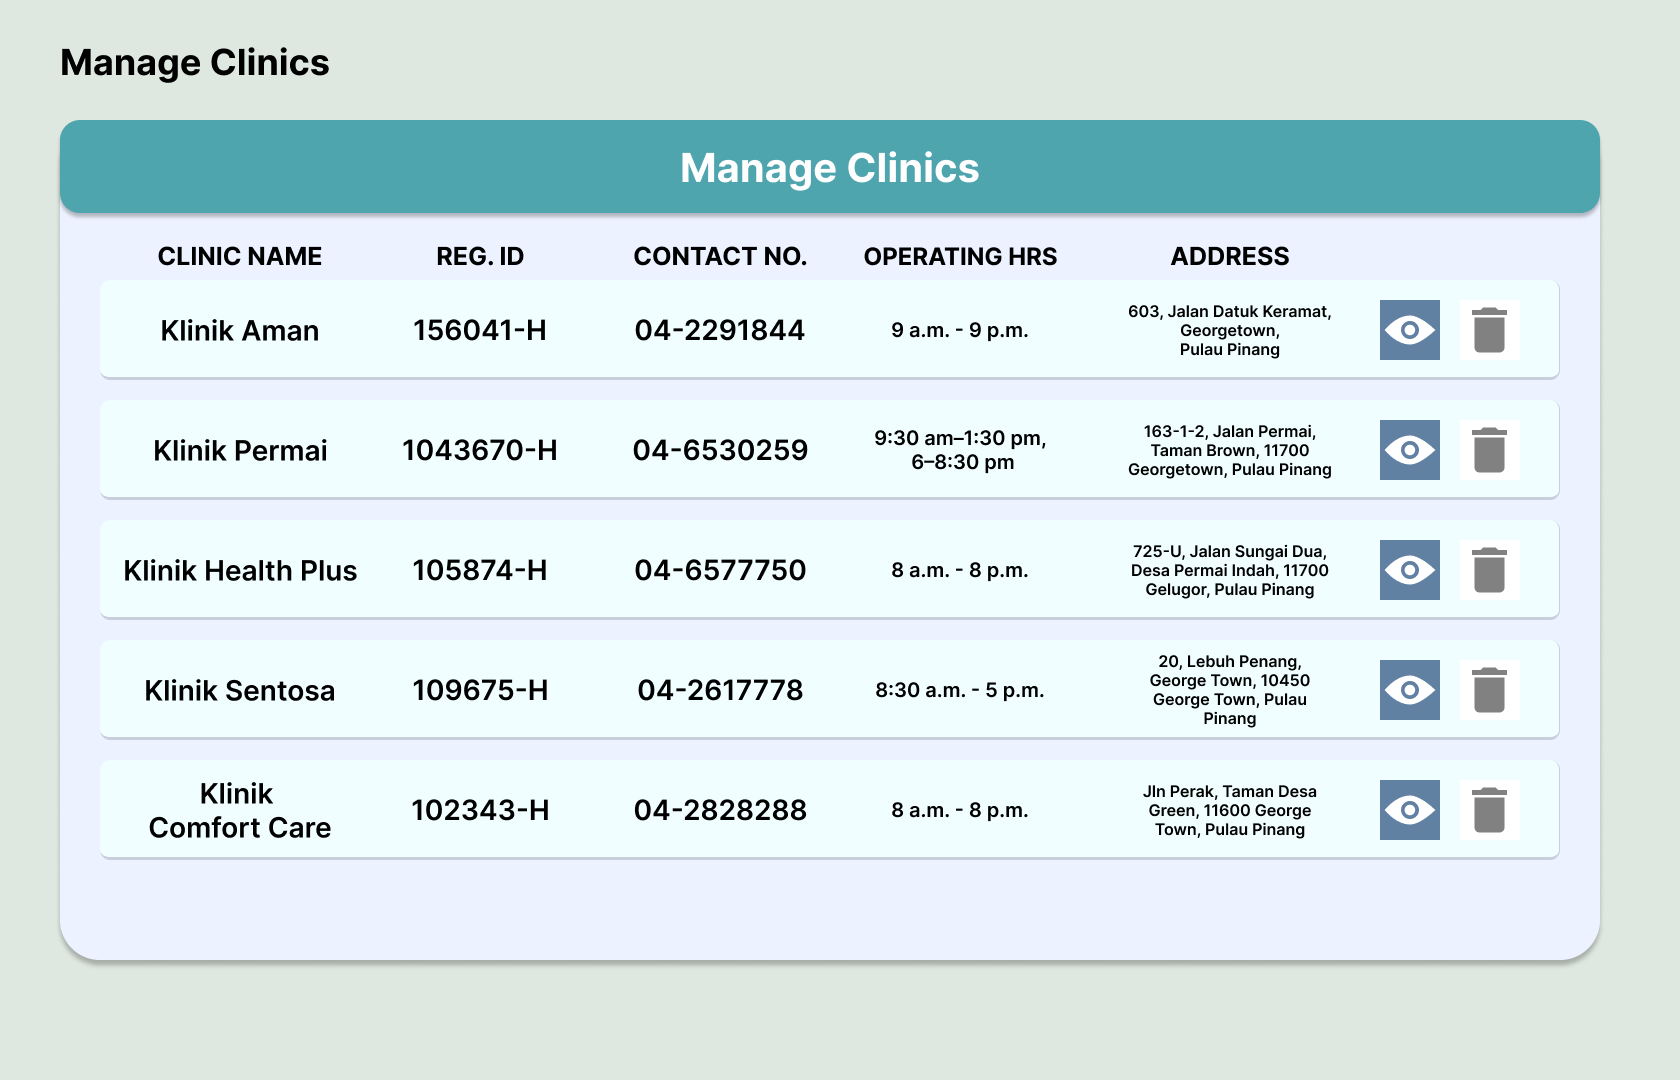
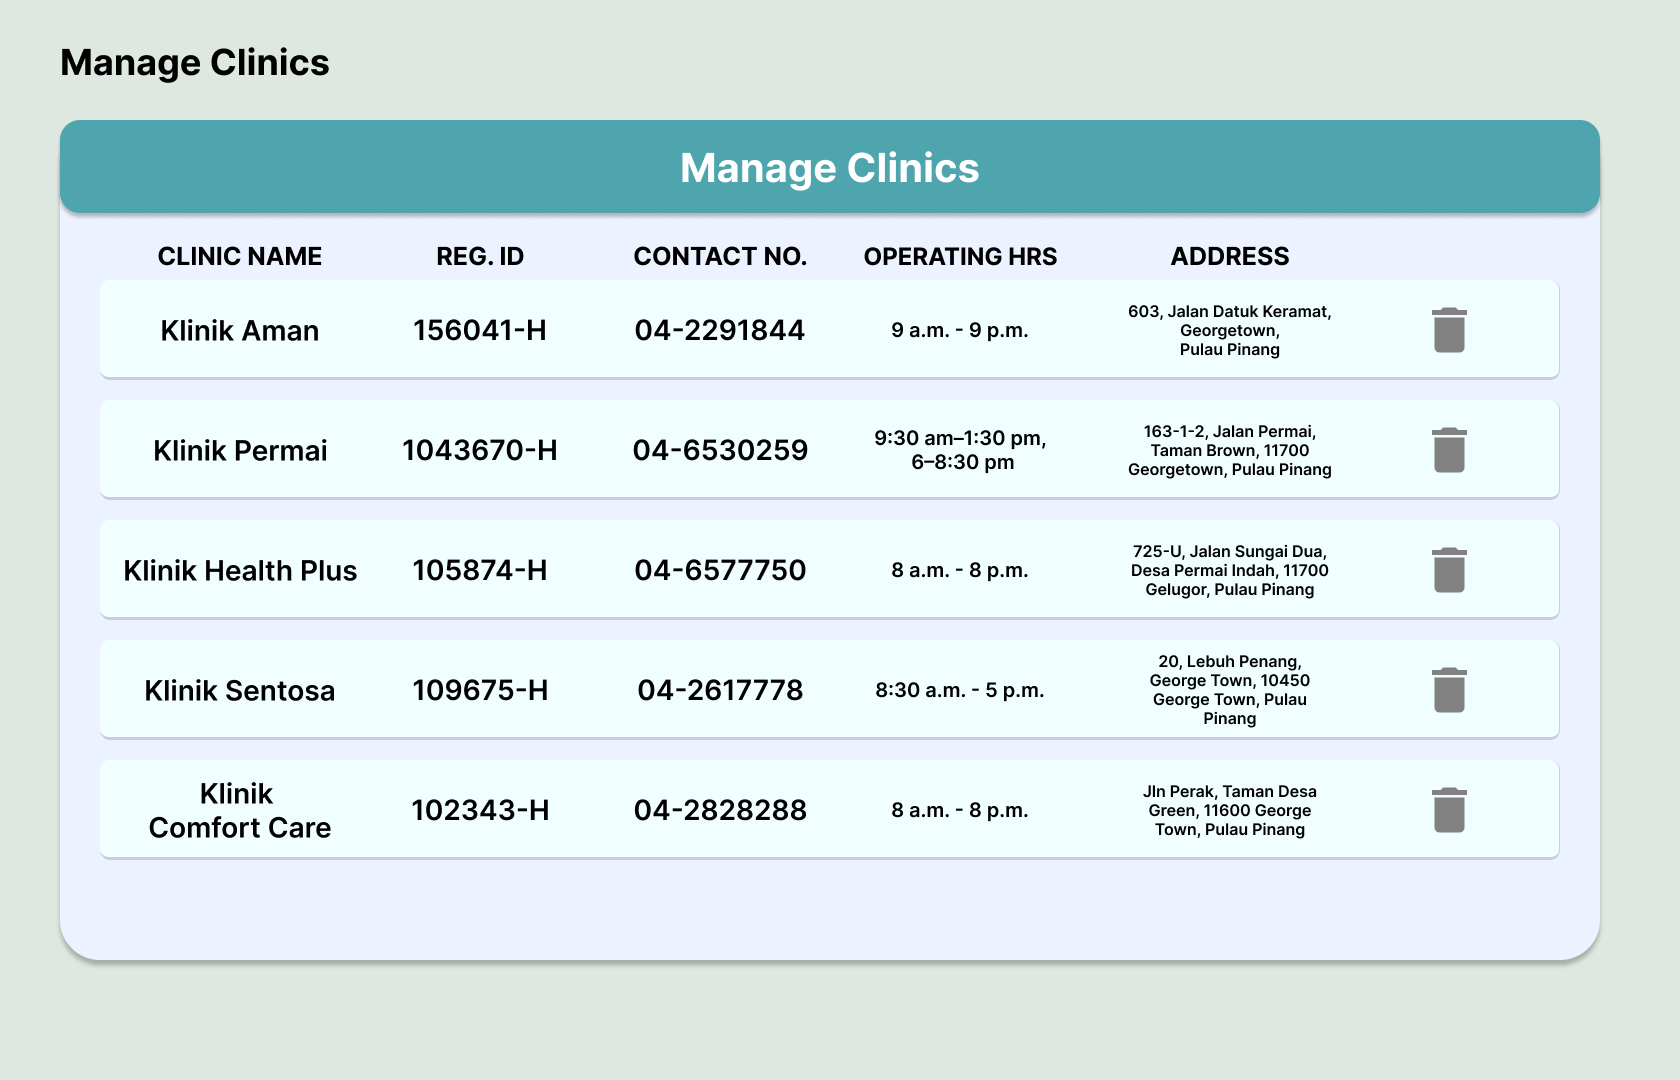
enabled update dashboard status, reload parents

diff --git a/views/dashboard/officerDashboard.py b/views/dashboard/officerDashboard.py
@@ -54,6 +54,12 @@ class GovOfficerDashboard(Frame):
             x=0, y=0, classname="primarypanelbg", root=self
         )
 
+        self.controller.buttonCreator(
+            ipath=r"assets/Dashboard/OfficerAssets/officerrefreshbtn.png",
+            x=1560, y=120, classname="refreshbtn", root=self,
+            buttonFunction=lambda: [self.refreshClinicsSideFrame()]
+        )
+
         self.initializeGovRegSystem()
         self.initializeApprovedClinicDetails()
         self.loadSupervisedClinicsOnMap()
@@ -69,7 +75,7 @@ class GovOfficerDashboard(Frame):
             master=self, width=780, height=h, autohide=True, bootstyle="officer-bg"
         )
         self.clinicsListFrame.grid_propagate(False)
-        self.clinicsListFrame.place(x=880, y=260, width=780, height=760)
+        self.clinicsListFrame.place(x=880, y=260, width=780, height=750)
         COORDS = (20, 20)
         for clinicEnrolment in self.systemManaged.programmeRegistration:
             clinic = clinicEnrolment.clinic
@@ -99,10 +105,18 @@ class GovOfficerDashboard(Frame):
                 text=clinic.address, font=("Inter", 12), fg=BLACK,
                 isDisabled=True, isJustified=True, justification="left",
             )
+
+            if clinicEnrolment.status == "APPROVED":
+                statusimage = "assets/Dashboard/OfficerAssets/approved.png"
+            elif clinicEnrolment.status == "PENDING":
+                statusimage = "assets/Dashboard/OfficerAssets/pending.png"
+            elif clinicEnrolment.status == "REJECTED":
+                statusimage = "assets/Dashboard/OfficerAssets/rejected.png"
+
             clinicStatus = self.controller.buttonCreator(
                 x=X+660, y=Y+20, classname=f"{clinic.id}_status", root=R,
-                ipath="assets/Dashboard/OfficerAssets/approved.png" if clinicEnrolment.status == "APPROVED" else "assets/Dashboard/OfficerAssets/pending.png",
-                buttonFunction=lambda c=clinic: [self.updateClinicStatus(c)],
+                ipath=statusimage,
+                buttonFunction=lambda c=clinic.id: [self.updateClinicStatus(c)],
                 isPlaced=True
             )
             COORDS = (
@@ -179,9 +193,10 @@ class GovOfficerDashboard(Frame):
         clinicsSearchEntry.bind("<FocusIn>", lambda e: [clinicsSearchEntry.delete(0, END)] if clinicsSearchEntry.get() == "Search" else None)
         clinicsSearchEntry.bind("<FocusOut>", lambda e: [clinicsSearchEntry.grid_forget(), self.loadClinicsSearchBar()])
 
-
+    def refreshClinicsSideFrame(self):
+        self.initializeGovRegSystem()
+        self.loadClinicsIntoSideFrame()
         
-
 
     def loadSupervisedClinicsOnMap(self):
         self.loc = GoogleV3(api_key=os.getenv(
@@ -205,6 +220,9 @@ class GovOfficerDashboard(Frame):
                 clinicCoordinates.latitude, clinicCoordinates.longitude, text=clinic.name
             )
 
+    
+
+
     def initializeGovRegSystem(self):
         self.systemManaged = self.prisma.govregsystem.find_first(
             where={
@@ -219,7 +237,51 @@ class GovOfficerDashboard(Frame):
                 }
             }
         )
+
+    def updateClinicStatus(self, clinic):
+        #if clinic is approved, then change clinic to pending, change approved image to pending image
+        #if clinic is pending, then change clinic to approved, change pending image to approved image
+        self.clinicEnrolment = self.prisma.clinicenrolment.find_first(
+            where={
+                "clinicId": clinic
+            }
+        )
+
+        if self.clinicEnrolment.status == "APPROVED":
+            self.clinicEnrolment = self.prisma.clinicenrolment.update(
+                data={"status": "PENDING"},
+                where={"clinicId_govRegId": {"clinicId": clinic, "govRegId": self.systemManaged.id}},
+                include={"clinic": True}
+            )
+            
+            self.initializeGovRegSystem()
+            self.initializeApprovedClinicDetails()
+            self.loadClinicsIntoSideFrame()
+            self.loadClinicsIntoBottomFrame()
+            
+        elif self.clinicEnrolment.status == "PENDING":  
+            self.clinicEnrolment = self.prisma.clinicenrolment.update(
+                data={"status": "APPROVED"},
+                where={"clinicId_govRegId": {"clinicId": clinic, "govRegId": self.systemManaged.id}},
+                include={"clinic": True}
+            )
+
+            self.initializeGovRegSystem()
+            self.initializeApprovedClinicDetails()
+            self.loadClinicsIntoSideFrame()
+            self.loadClinicsIntoBottomFrame()
         
+        elif self.clinicEnrolment.status == "REJECTED":
+            self.clinicEnrolment = self.prisma.clinicenrolment.update(
+                data={"status": "REJECTED"},
+                where={"clinicId_govRegId": {"clinicId": clinic, "govRegId": self.systemManaged.id}},
+                include={"clinic": True}
+            )
+
+            self.initializeGovRegSystem()
+            self.initializeApprovedClinicDetails()
+            self.loadClinicsIntoSideFrame()
+            self.loadClinicsIntoBottomFrame()
 
     def initializeApprovedClinicDetails(self):
         self.approvedClinics = self.prisma.govregsystem.find_first(

diff --git a/views/browseClinic/officerBrowse.py b/views/browseClinic/officerBrowse.py
@@ -24,8 +24,6 @@ from pendulum import timezone
 import tkintermapview
 
 
-
-
 class OfficerBrowseClinic(Frame):
     def __init__(self, parent: GovOfficerDashboard, controller: ElementCreator = None):
         super().__init__(parent, width=1, height=1, bg="#dee8e0", name="browseclinicpanel")
@@ -35,7 +33,7 @@ class OfficerBrowseClinic(Frame):
         self.grid(row=0, column=12, columnspan=84, rowspan=54, sticky=NSEW)
         self.user = self.parent.user
         self.prisma = self.controller.mainPrisma
-        
+
         self.createFrames()
         self.createElements()
 
@@ -76,54 +74,46 @@ class OfficerBrowseClinic(Frame):
             clinicName = self.controller.scrolledTextCreator(
                 x=60, y=Y+20, width=200, height=60, root=R, classname=f"{clinic.id}_name",
                 bg="#f1feff", hasBorder=False, text=clinic.name,
-                font=("Inter", 14), fg=BLACK, 
+                font=("Inter", 14), fg=BLACK,
                 isDisabled=True, isJustified=True,
             )
 
             clinicId = self.controller.scrolledTextCreator(
-                x=290, y=Y+20, width=200, height=60, root=R, classname=f"{clinic.id}_id",
+                x=290, y=Y+20, width=200, height=70, root=R, classname=f"{clinic.id}_id",
                 bg="#f1feff", hasBorder=False, text=clinic.id,
-                font=("Inter", 14), fg=BLACK, 
+                font=("Inter", 14), fg=BLACK,
                 isDisabled=True, isJustified=True,
             )
 
             clinicPhone = self.controller.scrolledTextCreator(
                 x=540, y=Y+20, width=200, height=60, root=R, classname=f"{clinic.id}_phone",
                 bg="#f1feff", hasBorder=False, text=clinic.phoneNum,
-                font=("Inter", 14), fg=BLACK, 
+                font=("Inter", 14), fg=BLACK,
                 isDisabled=True, isJustified=True,
             )
 
             clinicHrs = self.controller.scrolledTextCreator(
-                x=780, y=Y+20, width=220, height=60, root=R, classname=f"{clinic.id}_hrs",
+                x=760, y=Y+20, width=240, height=60, root=R, classname=f"{clinic.id}_hrs",
                 bg="#f1feff", hasBorder=False, text=clinic.clinicHrs,
-                font=("Inter", 14), fg=BLACK, 
+                font=("Inter", 14), fg=BLACK,
                 isDisabled=True, isJustified=True,
             )
 
             clinicAddress = self.controller.scrolledTextCreator(
-                x=1020, y=Y+20, width=260, height=60, root=R, classname=f"{clinic.id}_address",
+                x=1020, y=Y+20, width=280, height=60, root=R, classname=f"{clinic.id}_address",
                 bg="#f1feff", hasBorder=False, text=clinic.address,
-                font=("Inter", 14), fg=BLACK, 
+                font=("Inter", 14), fg=BLACK,
                 isDisabled=True, isJustified=True,
             )
-
-            hidebtn = self.controller.buttonCreator(
-                ipath="assets/Dashboard/OfficerAssets/hideindicator.png",
-                classname=f"hideindicator{clinic.id}", root=R,
-                x=1300, y=Y+20, buttonFunction=lambda t = clinic.id: [print(f"hide {t}")],
-                isPlaced=True,
-            )
-            ToolTip(hidebtn, f"Hide {clinic.name}")
 
             deletebtn = self.controller.buttonCreator(
                 ipath="assets/Dashboard/OfficerAssets/dustbin.png",
                 classname=f"dustbin{clinic.id}", root=R,
-                x=1380, y=Y+20, buttonFunction=lambda t = clinic.id: [print(f"delete {t}")],
+                x=1340, y=Y+20, buttonFunction=lambda t=clinic.id: self.deleteClinic(t),
                 isPlaced=True
             )
             ToolTip(deletebtn, f"Delete {clinic.name}")
-            
+
             COORDS = (
                 COORDS[0], COORDS[1] + 120
             )
@@ -135,19 +125,29 @@ class OfficerBrowseClinic(Frame):
                 "supervisingOfficer": {"some": {"userId": self.user.id}},
             },
             include={
-                "programmeRegistration":{
-                                            "where": {
-                                                "status": "APPROVED"
-                                            },
-                                            "include": {
-                                                "clinic": True
-                                            }
-                                        }
+                "programmeRegistration": {
+                    "where": {
+                        "status": "APPROVED"
+                    },
+                    "include": {
+                        "clinic": True
+                    }
+                }
             }
-            
         )
-         
-    
+
+    def deleteClinic(self, clinicId: str):
+        prisma = self.prisma
+        self.approvedClinics = prisma.clinic.delete(
+            where={
+                "id": clinicId
+            }
+        )
+
+        self.initializeManageClinicsSystem()
+        self.parent.loadClinicsIntoBottomFrame()
+        self.parent.loadClinicsIntoSideFrame()
+        self.parent.loadSupervisedClinicsOnMap()
 
     # def loadClinicsRequests(self):
     #     pass

diff --git a/views/clinicRequests/officerGRDRequests.py b/views/clinicRequests/officerGRDRequests.py
@@ -79,7 +79,7 @@ class OfficerGRDRequests(Frame):
             )
 
             clinicId = self.controller.scrolledTextCreator(
-                x=320, y=Y+25, width=200, height=60, root=R, classname=f"{clinic.id}_id",
+                x=320, y=Y+25, width=200, height=70, root=R, classname=f"{clinic.id}_id",
                 bg="#f1feff", hasBorder=False, text=clinic.id,
                 font=("Inter", 14), fg=BLACK,
                 isDisabled=True, isJustified=True,
@@ -93,7 +93,7 @@ class OfficerGRDRequests(Frame):
             )
 
             clinicHrs = self.controller.scrolledTextCreator(
-                x=790, y=Y+25, width=200, height=60, root=R, classname=f"{clinic.id}_hrs",
+                x=770, y=Y+25, width=240, height=60, root=R, classname=f"{clinic.id}_hrs",
                 bg="#f1feff", hasBorder=False, text=clinic.clinicHrs,
                 font=("Inter", 14), fg=BLACK,
                 isDisabled=True, isJustified=True,
@@ -146,10 +146,12 @@ class OfficerGRDRequests(Frame):
         )
         
 
-        ToastNotification("Clinic Status", f"{self.accept.clinic.name} has been approved", duration=3, bootstyle="success", )
+        ToastNotification("Clinic Status", f"{self.accept.clinic.name} has been approved", duration=3000, bootstyle="success", )
 
         self.initializeOfficerGRDRequests()
         self.loadClinicsRequestsFrame()
+        self.parent.loadClinicsIntoBottomFrame()
+        self.parent.loadClinicsIntoSideFrame()
 
     def rejectClinic(self, clinicid: str):
         prisma = self.prisma
@@ -159,7 +161,9 @@ class OfficerGRDRequests(Frame):
             include={"clinic": True}
         )
 
-        ToastNotification("Clinic Status", f"{self.reject.clinic.name} has been rejected", duration=3, bootstyle="success")
+        ToastNotification("Clinic Status", f"{self.reject.clinic.name} has been rejected", duration=3000, bootstyle="success")
 
         self.initializeOfficerGRDRequests()
         self.loadClinicsRequestsFrame()
+        self.parent.loadClinicsIntoBottomFrame()
+        self.parent.loadClinicsIntoSideFrame()
